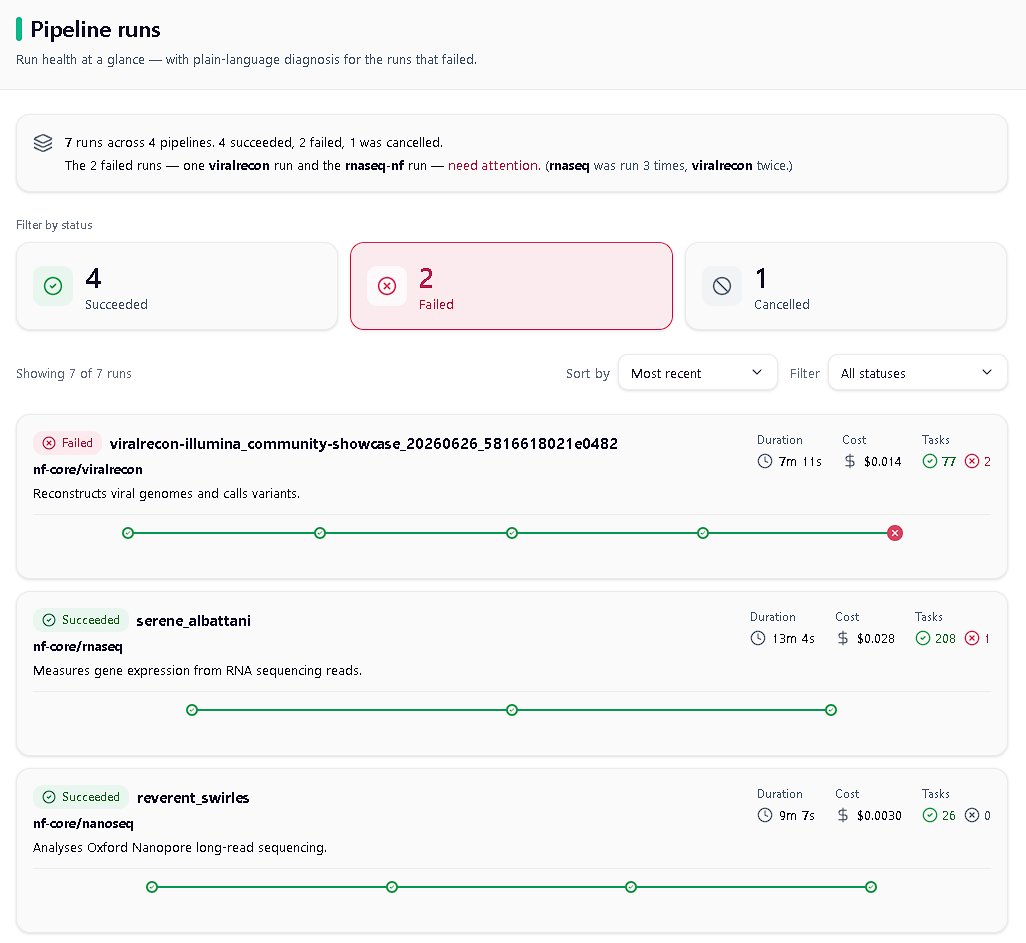
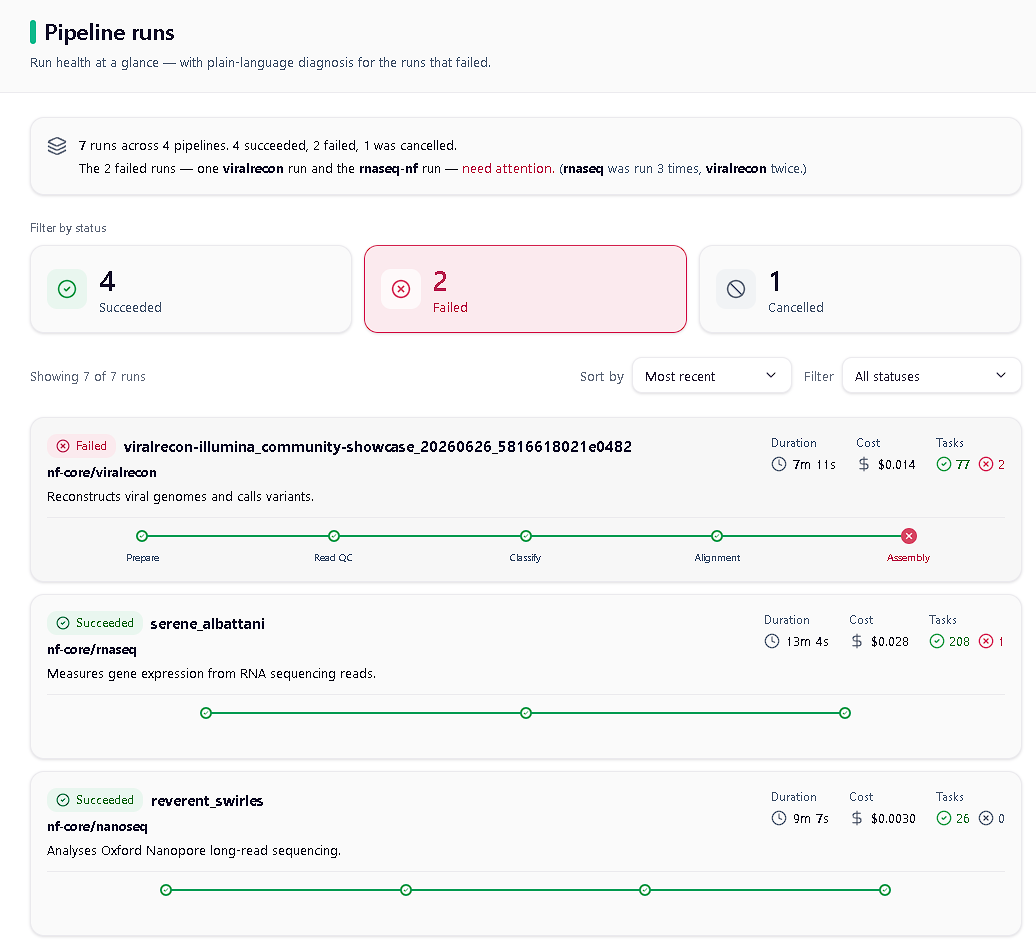
image and readme updates

diff --git a/README.md b/README.md
@@ -8,7 +8,11 @@ exactly as deep as you want — and treats a *failed* run as a first-class, diag
 
 > **Health at a glance → a scannable runs list (each run shows its phase roadmap) → a
 > diagnostic failure view** for the runs that broke. Everything shown is reconstructed from the
-> real execution data.
+> real execution data — nothing is fabricated.
+
+**Stack:** Vite · React · TypeScript · Tailwind · shadcn/ui (Radix) · framer-motion.
+Visualizations are hand-rolled SVG. Styled with a token system **sampled from the product's own
+UI and tuned for WCAG AA**.
 
 > Overview — run health at a glance, with each run's phase roadmap
 
@@ -17,10 +21,6 @@ exactly as deep as you want — and treats a *failed* run as a first-class, diag
 > Diagnostic failure view — run progress, likely source, and the grounded cause…
 
 <p align="center"><img src="images/details.png" alt="Failure detail — run progress, likely source, and the grounded cause" width="300" /></p>
-
-**Stack:** Vite · React · TypeScript · Tailwind · shadcn/ui (Radix) · framer-motion.
-Visualizations are hand-rolled SVG. Styled with a token system **sampled from the product's own
-UI and tuned for WCAG AA**.
 
 ## Run it
 
@@ -48,7 +48,7 @@ interpretation for you and keeps the raw depth one click away. It's an addition,
 - **Inserts** an interpretation layer between clicking a run and the existing detail.
 - **Preserves** the platform's depth — *See full run details* opens the existing view, unchanged.
 
-## What the data taught me
+## What the data taught me (the reasoning starts here)
 
 The dataset is an **execution record, not the science** — timing, cost, task status; the real
 outputs live in cloud storage, referenced only by path. Every interaction and component choice
@@ -125,12 +125,20 @@ below follows from reading the data closely:
 
 ## What I'd build next (with more time / real data)
 
-- **Real-time runs** — the roadmap is built for it; with live telemetry it fills in as phases
-  complete. Not faked here because the dataset is entirely post-execution.
-- **Per-process resource charts** (`metrics[]`) and a **provenance panel** (copy the exact
-  command, link the commit, resume the session).
-- **Group-by-pipeline** at scale (the data layer already computes per-pipeline counts).
-- **Rerun-from-the-failed-step** as a real action, plus a concise ↔ full density toggle.
+The Run Summary *interprets*; the platform's existing detail *exhausts*. So next steps **deepen
+the interpretation** rather than rebuild raw-data panels:
+
+- **Real-time runs** *(needs live data)* — the roadmap is built for it; with live telemetry it
+  fills in as phases complete. Not faked here because the dataset is entirely post-execution.
+- **Richer diagnosis** — more failure archetypes and a fuller source classification.
+- **Overview aggregate charts** (cost/duration across runs) and **group-by-pipeline** health
+  (the data layer already computes per-pipeline counts).
+- **A live-model AI summary** over the same structured fields, plus a **density toggle**.
+- **Rerun-from-the-failed-step** as a real action (the button is the affordance today).
+
+Deliberately *out of scope* for the summary — because it's the existing detail view's job, which
+this design **preserves and links to**: provenance/config/containers, per-process resource
+charts, and raw logs. The summary points to them; it doesn't rebuild them.
 
 ## Project layout
 